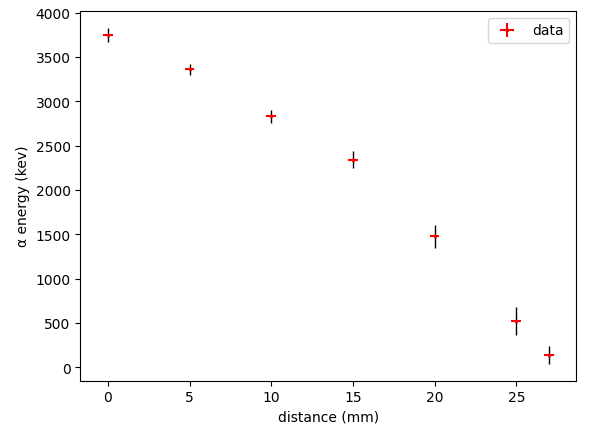
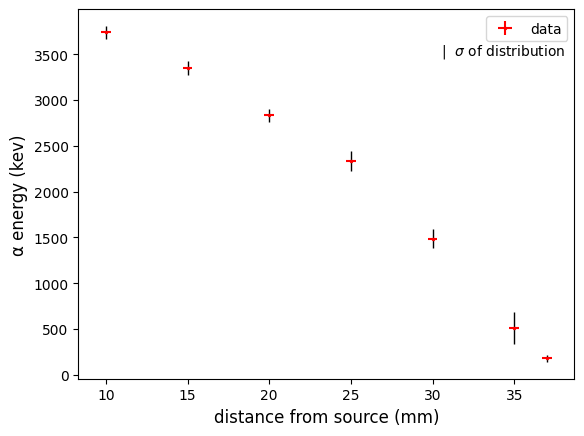
improved dEdx

diff --git a/EducatorsGuide.md b/EducatorsGuide.md
@@ -449,9 +449,48 @@ particles become very slow. This behavior illustrates the Bragg peak of the depo
 energy, which is relevant for radiation therapy. 
 
 Quantitative measurements to demonstrate the energy loss in air (or the "stopping
-power) can be made if a thin, preferably open and mono-energetic α-source, e.g. Am-251, 
-is available. 
-Measurements of the energies of α particles as a function of the distance from the 
+power) can be made if a thin, preferably open and mono-energetic α-source, e.g. Am-241, 
+is available. α particles are selected using the cluster properties explained above
+by requiring a high value of the average energy deposit per pixel, a circular 
+cluster shape and a non-flat energy distribution.  
+Here is a code example, assuming the data is stored in a *pandas* data frame *df*:
+
+    # define useful quantities
+    # - mean energy per pixel
+    df['Epix_mean'] = df['energy'] / df['n_pix']
+    # - circularity of cluster shape as the ratio of the sizes in x and y
+    df['circularity'] = df['var_mn'] / np.maximum(df['var_mx'].to_numpy(), 0.001)
+    # - flatness of energy distribution 
+    df['flatness'] = df['varE_mx'] / np.maximum(df['var_mx'].to_numpy(), 0.001) 
+
+    # apply cuts on these quantities
+    dEdx_cut = 80
+    circularity_cut = 0.3
+    flatness_cut = 0.4
+    is_high_dEdx = df['Epix_mean'] > dEdx_cut
+    is_circular = df['circularity'] >= circularity_cut
+    is_flat = df['flatness'] > flatness_cut
+
+    # loose definition of alpha candidate by shape
+    shape_is_alpha = is_circular & ~is_flat
+    # a loose definition of an alpha
+    is_cand_alpha = shape_is_alpha | is_high_dEdx
+    # a tight definition of an alpha
+    is_alpha = shape_is_alpha & is_high_dEdx
+    
+To obtain reliable energy measurements, it is important to exclude clusters with
+pixel energies above 1200 keV, because the detector response becomes non-linear
+due to saturating pixel charges. In fact, the energy is largely overestimated in
+such cases. A cure is to discard events where α particles hit the centre of a pixel, 
+leading to the definition of a "clean alpha" with reliable energy determination:
+
+    is_clean_alpha = is_alpha & (df['e_mx'] < 1200.)
+
+or, if also low-energy α with one to three active pixels are to be included:
+
+    is_clean_alpha = is_cand_alpha & (df['e_mx'] < 1200.)
+
+Such measurements of the energies of α particles as a function of the distance from the 
 source in steps of 5mm are shown below. One channel in the spectrum corresponds to an 
 energy of 10 keV. The the highest  energy of 3.7 MeV was seen at a distance from 
 the source of about 1cm. The other spectra at lower energies were recorded at increasing 
@@ -460,22 +499,24 @@ distances in 5mm intervals.
 ![Spectra of α energies as a function of the penetration depth in air](
   images/alpha-spectrum_vs_distance.png).
 
-The increased energy loss with lower energies is clearly visible. It 
-amounts to 92 keV/mm at an energy of 3.4 MeV and increases to 192 keV/mm
-at an energy of 1.5 MeV. The fitted peak positions as a function of the 
-distance of the *miniPIX* from the source are shown below. The vertical
-error bars indicate the standard deviation of the spectrum; the uncertainty
-on the mean is very small and not visible.
+The distance between the peaks, i.e. the energy loss, rises at lower energies. 
+The energy loss amounts 92 keV/mm at an energy of 3.4 MeV and increases to 
+192 keV/mm at 1.5 MeV. 
+
+The fitted peak positions as a function of the distance of the *miniPIX* from 
+the Am-241 source are shown below. The vertical error bars indicate the standard 
+deviation of the spectrum; the uncertainty on the mean is very small and not visible.
 
 ![α energy as a function of the penetration depth in air](
   images/alpha-energy_vs_distance.png).
 
-Note that the measured energies are lower than expected from the theoretical
-Bethe-Bloch relation, probably due to dead material in front of the 
-sensitive area of the *Timepix* sensor. If this was precisely known, a 
-correction could be applied, which, however, would need the theoretical
-energy loss as an input, contradicting the purpose of this experiment
-to demonstrate the energy dependence of the stopping power. 
+The observed range of 2.7 cm for an energy of 3750 keV exceeds the one expected
+from the theoretical curves shown above. Such a range would correspond to a 
+theoretical energy of about 4200 KeV. This discrepancy is caused by the layer of 
+dead material in front of the sensitive area of the *Timepix* sensor. 
+A thickness of 3µm of Aluminium is sufficient to explain the difference. Note that 
+the presence of such an absorption layer also changes the slope of the E(d) curve, 
+because the amount of unmeasured energy loss increases at lower values of the α energy.  
 
 
 ### Measurement of the energy loss of β radiation.  
@@ -593,10 +634,10 @@ The α signatures stem from decays of the noble gas Radon (Rn-222 and Rn-224)
 from the Uranium and Thorium decay chains. Radon is produced from radioactive 
 decays of these elements in building materials and in the inner of the Earth.
 As a non-reactive noble gas, Radon is released from the material and accumulates
-in the air, in particularly in poorly ventilated rooms. 
+in the air, in particular in poorly ventilated rooms. 
 Radon and its daughter-nuclei (Po, Bi, Pb) produce α particles with typical 
 energies around 5 - 7 MeV. As they rapidly loose energy through interactions with
-air molecules the energies observed in the *miniPIX*observed are typically smaller.
+air molecules the energies observed in the *miniPIX* are typically smaller.
 
 The long, straight track near the centre at the right-hand side of the image
 is an example of a muon from cosmic radiation traversing the detector under 
